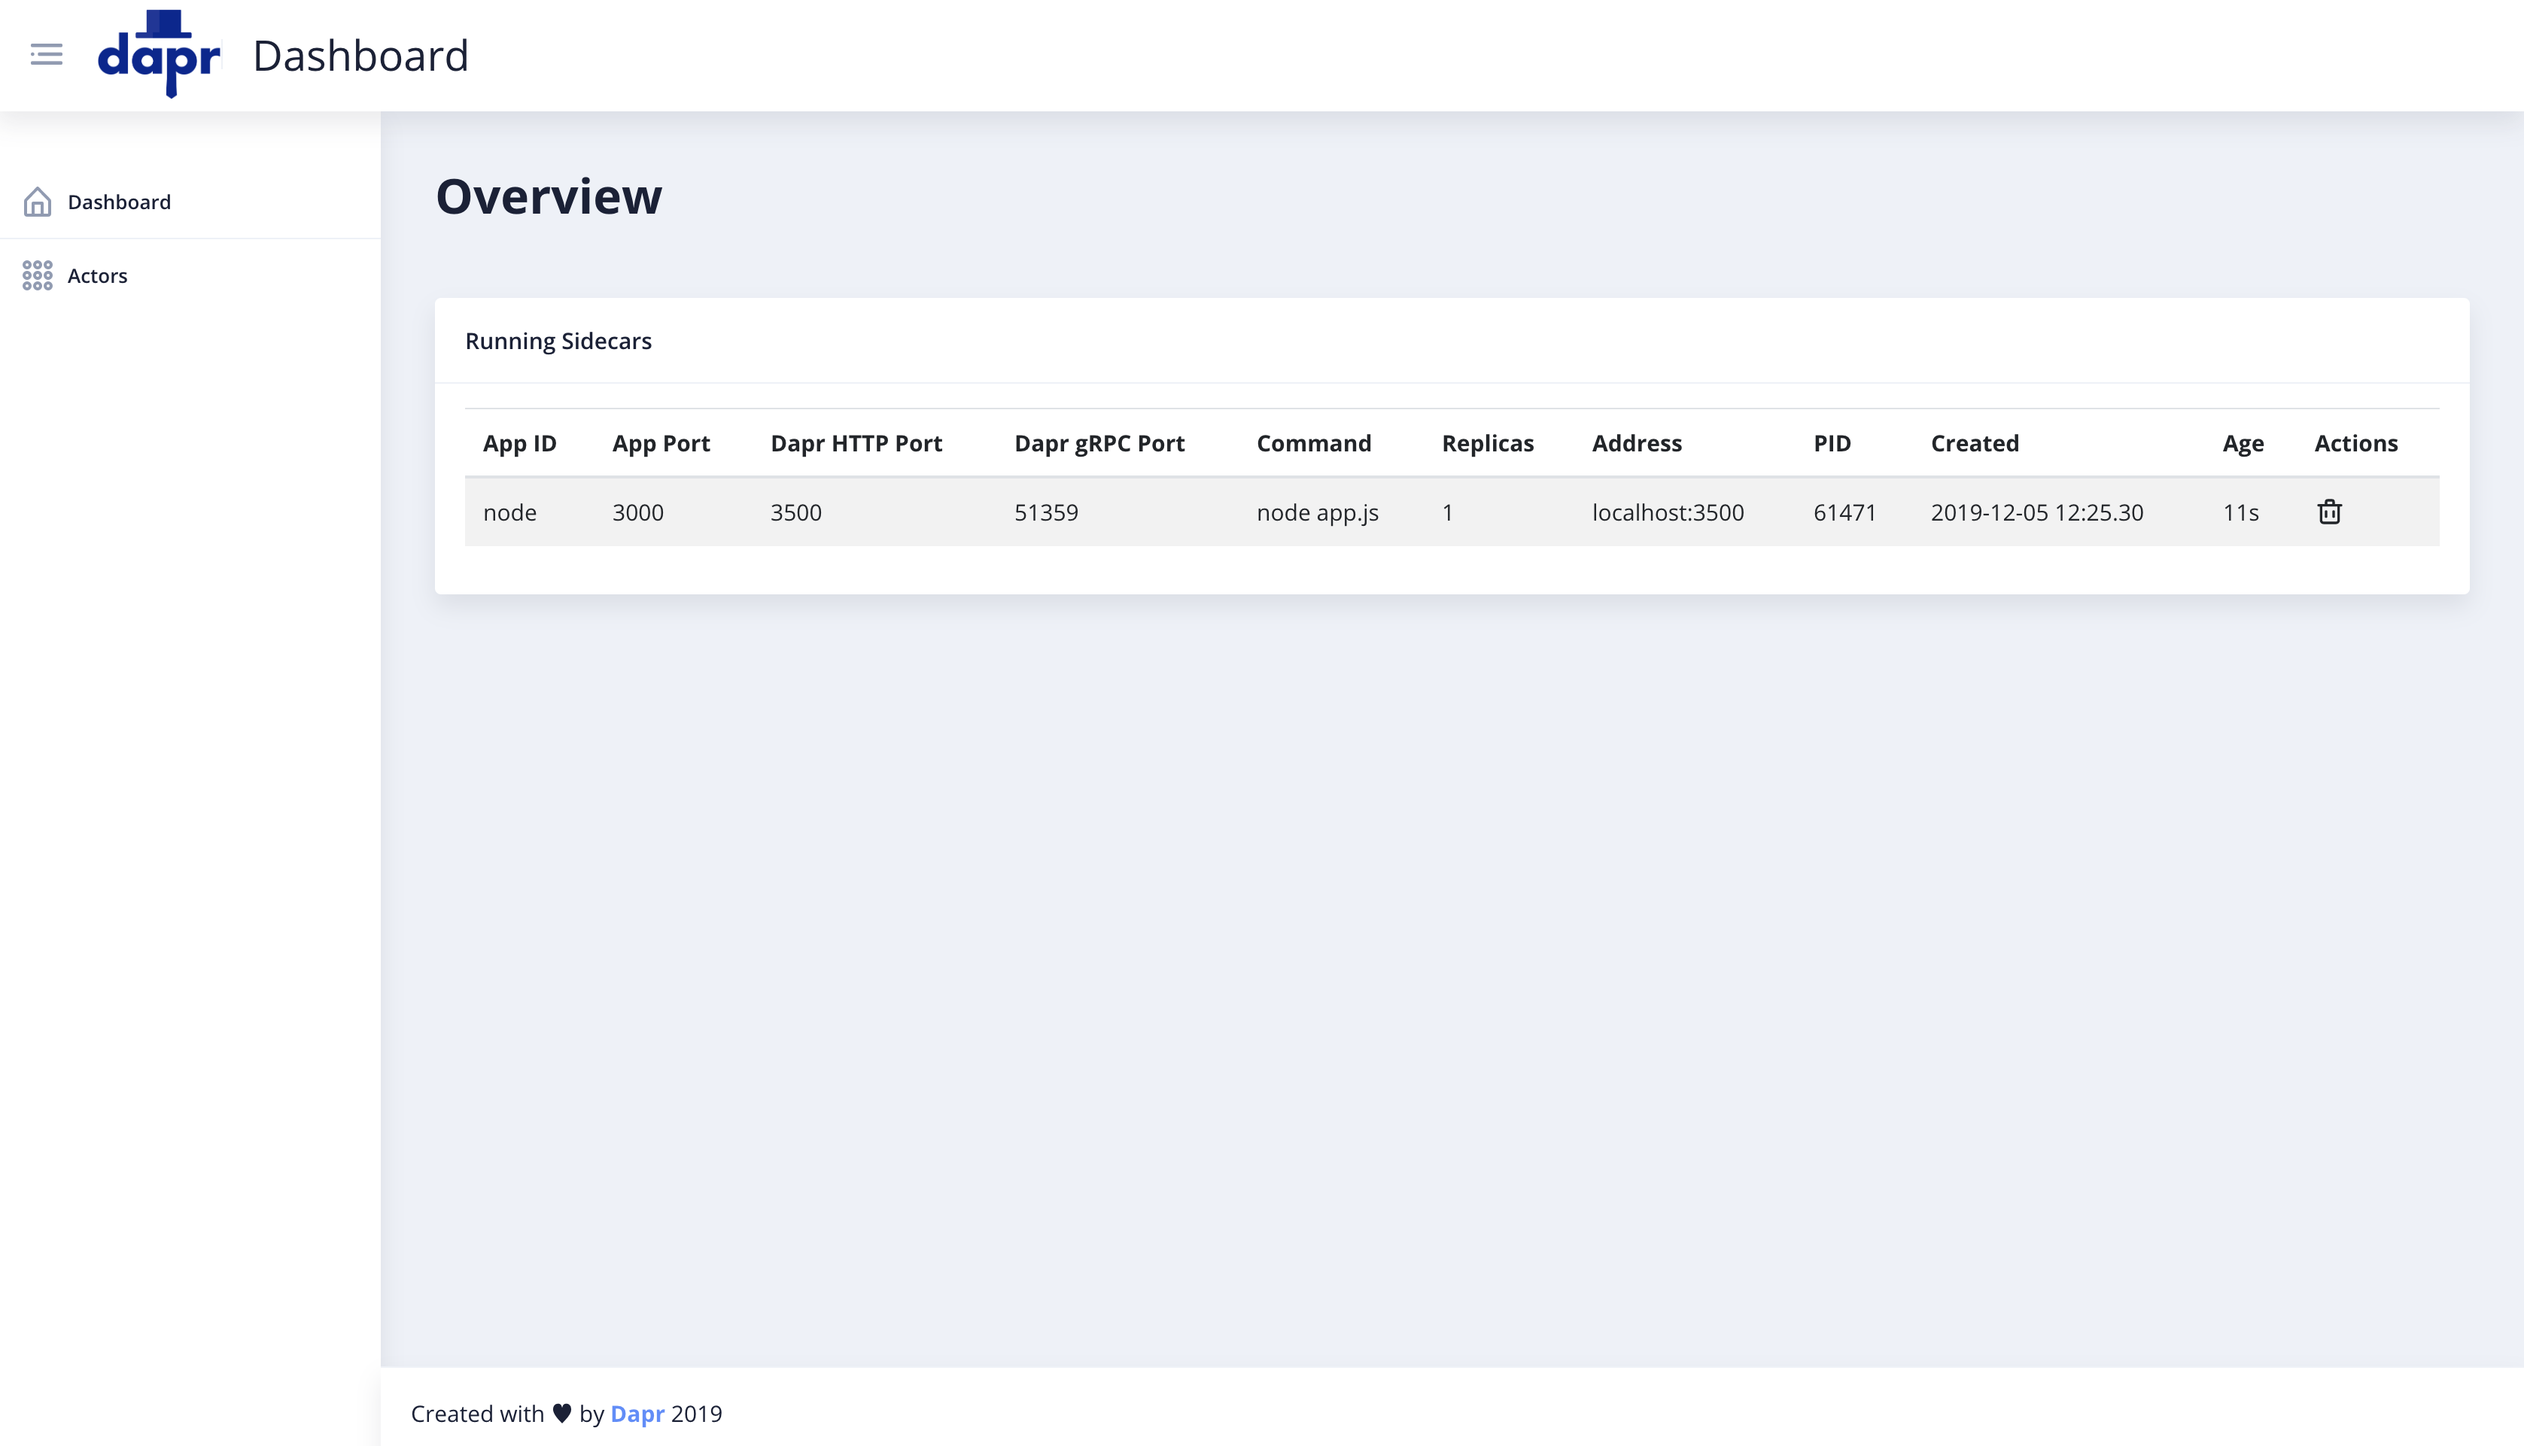
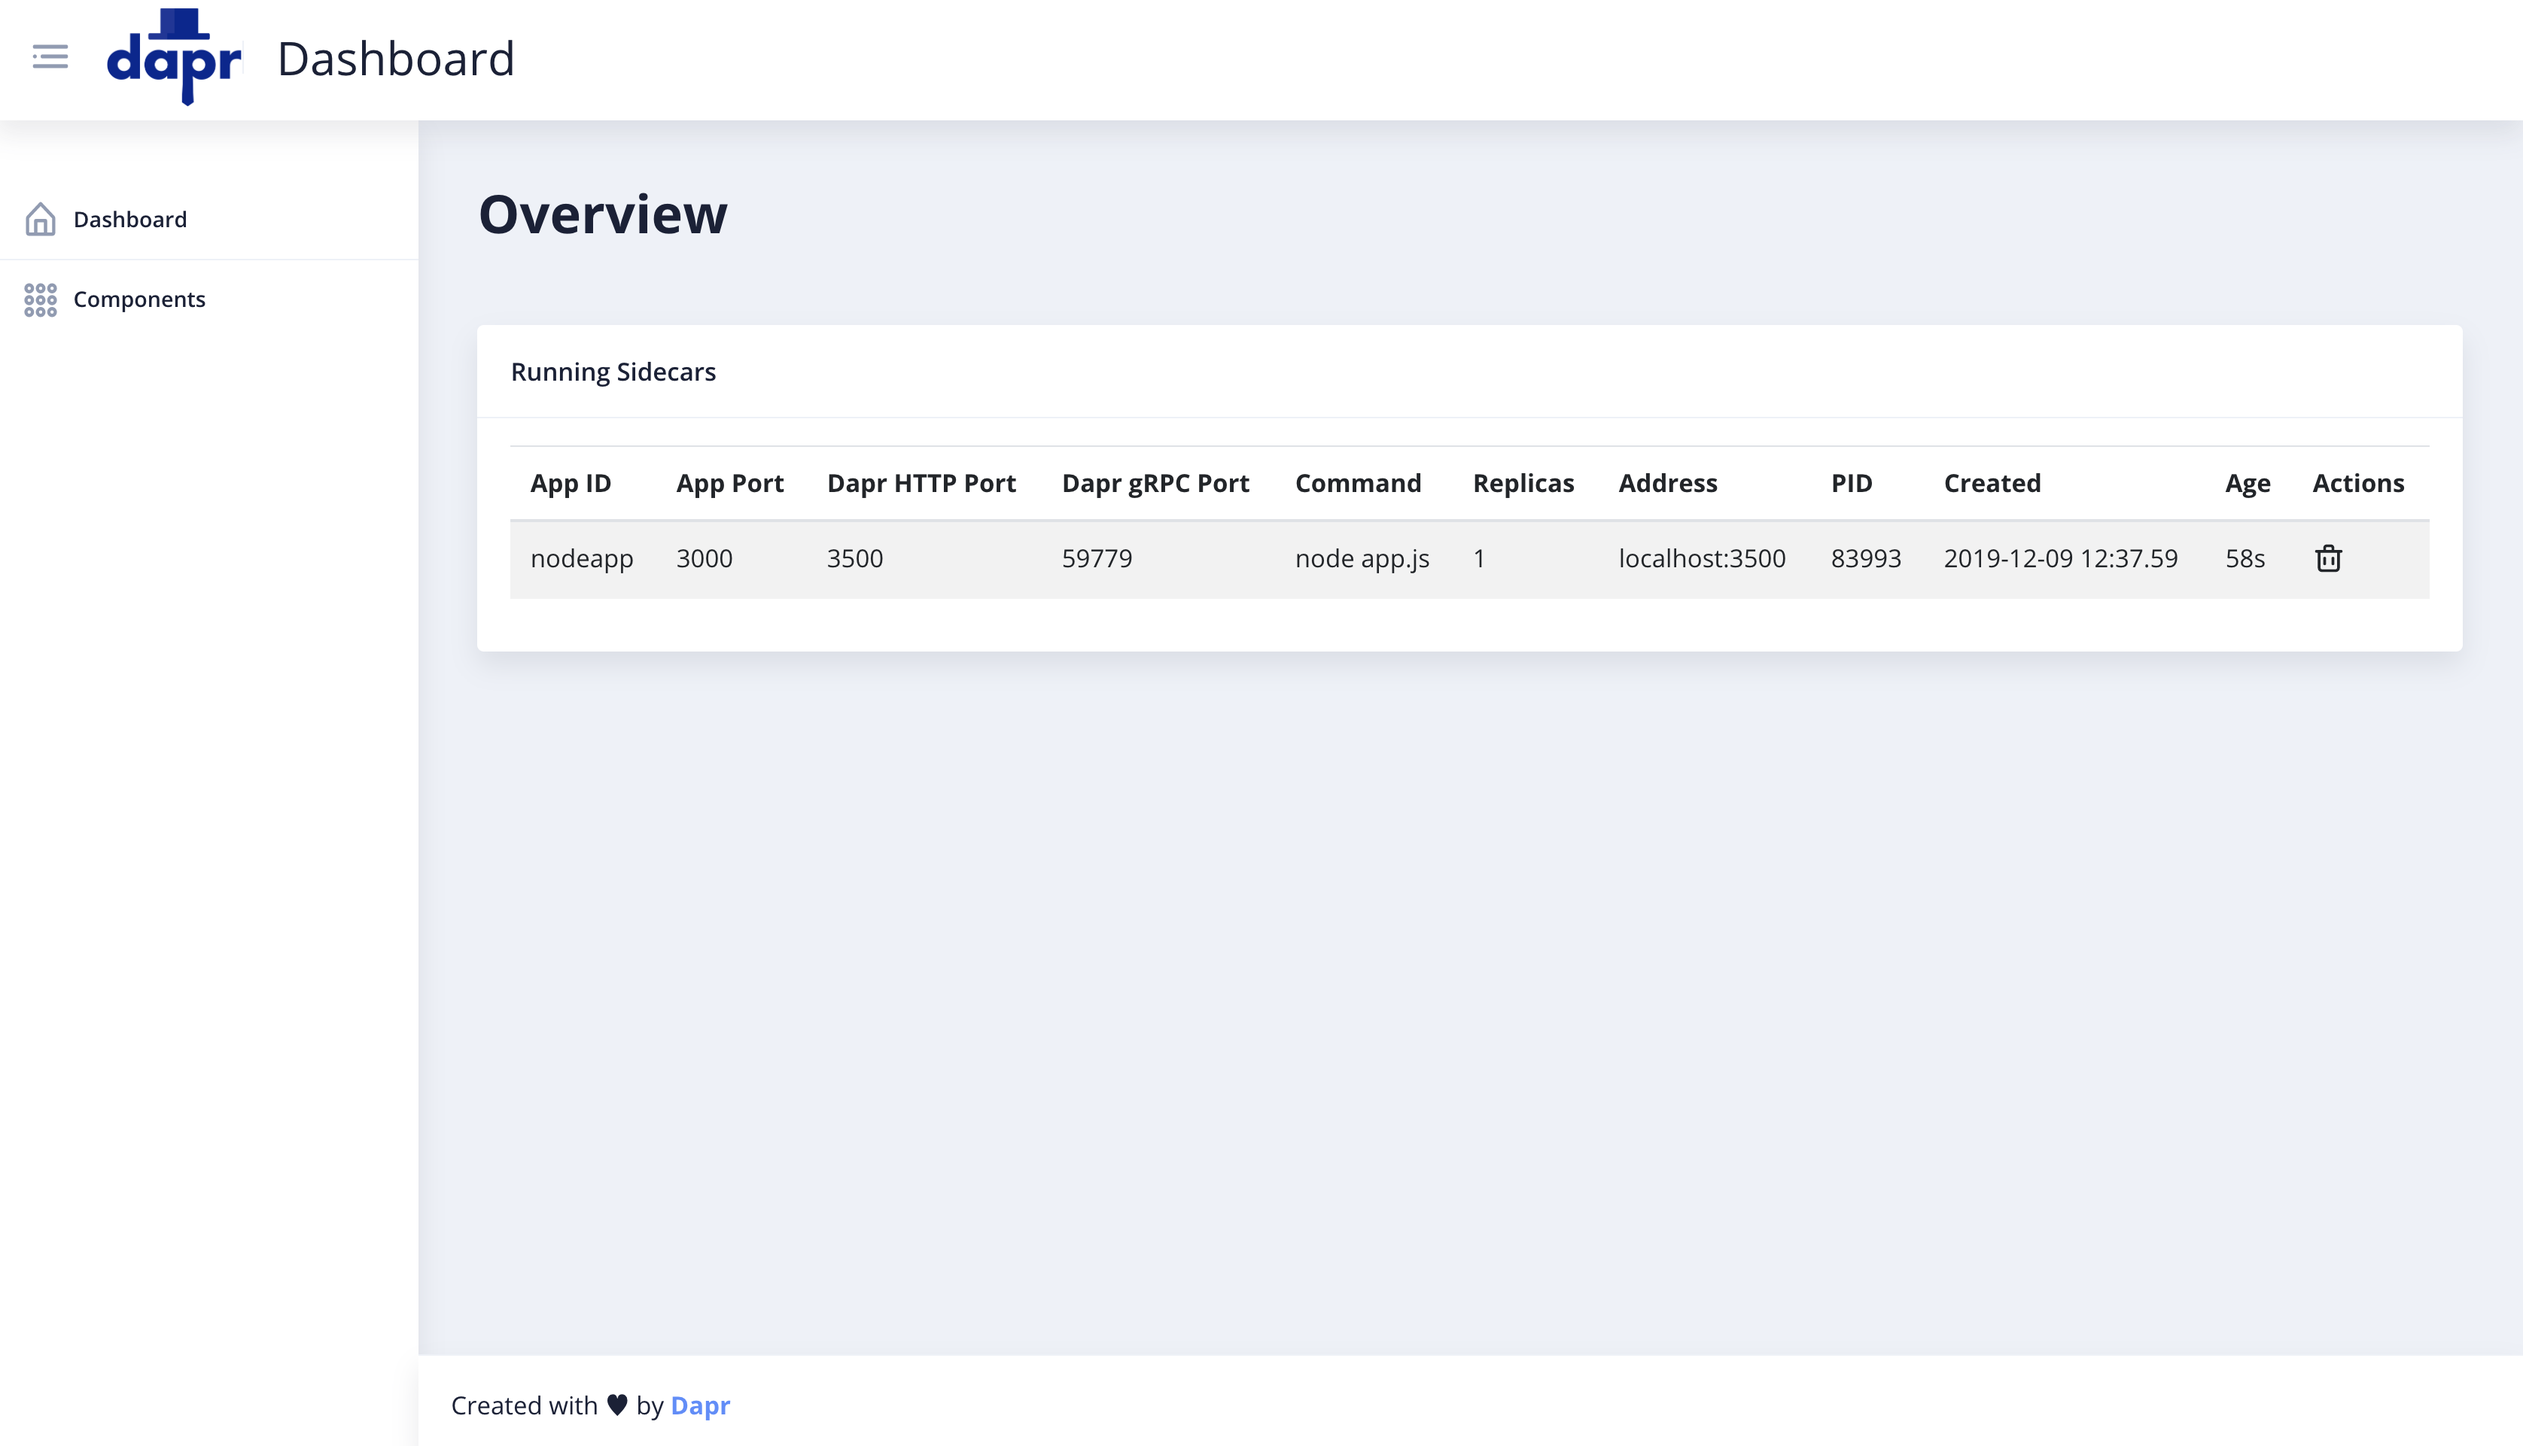
img change, file name update

diff --git a/web/src/app/@theme/components/footer/footer.component.ts b/web/src/app/@theme/components/footer/footer.component.ts
@@ -4,7 +4,7 @@ import { Component } from '@angular/core';
   selector: 'ngx-footer',
   styleUrls: ['./footer.component.scss'],
   template: `
-    <span class="created-by">Created with ♥ by <b><a href="http://dapr.io" target="_blank">Dapr</a></b> 2019</span>
+    <span class="created-by">Created with ♥ by <b><a href="http://dapr.io" target="_blank">Dapr</a></b></span>
   `,
 })
 export class FooterComponent {

diff --git a/web/src/app/pages/pages-menu.ts b/web/src/app/pages/pages-menu.ts
@@ -8,7 +8,7 @@ export const MENU_ITEMS: NbMenuItem[] = [
     home: true,
   },
   {
-    title: 'Actors',
+    title: 'Components',
     icon: 'keypad-outline',
     link: '/pages/dashboard',
     home: false,
